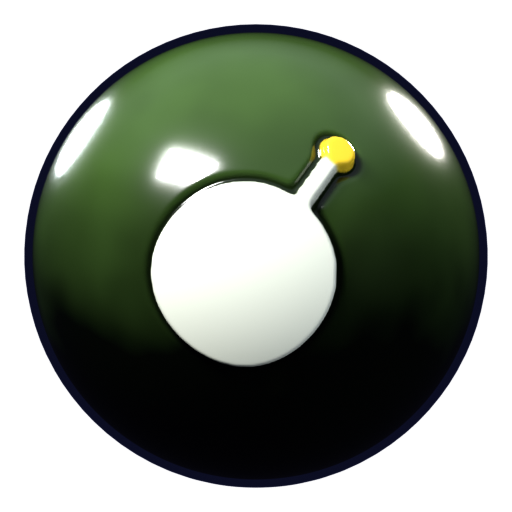
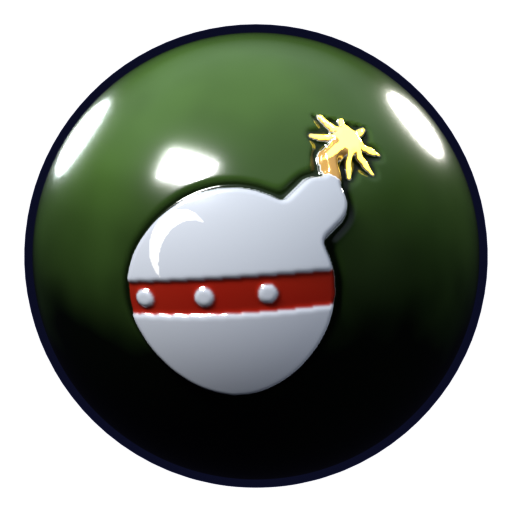
ART-2: custom relief emblems for PLANT (leaf), SLIME (drop with drips), GAS (cloud with swirls), BOMB (band, rivets, fuse, spark); contrast emblems for GHOST, BUBBLE, CRYSTAL; before|after sheet docs/shots/art2/fixed.jpg (8/10)

Changed region(s): [[0.2188, 0.2188, 0.75, 0.7812]]

diff --git a/tools/art/blender/balls.py b/tools/art/blender/balls.py
@@ -202,14 +202,168 @@ def flame_mask():
     return blur(outer.astype(np.float32), 1.0), blur(inner.astype(np.float32), 1.0)
 
 
+# ---------- custom emblem shapes (ART-2): the atlas icons for these read badly as relief ----------
+def _grid(k=1.0):
+    """Emblem space: x -0.5..0.5, y 0..1 (up); k > 1 enlarges the shape around the centre."""
+    y, x = (np.mgrid[0:ER, 0:ER] + 0.5) / ER  # y up (row 0 = bottom)
+    return (x - 0.5) / k, (y - 0.5) / k + 0.5
+
+
+def _disc(x, y, cx, cy, rx, ry=None):
+    ry = rx if ry is None else ry
+    return ((x - cx) / rx) ** 2 + ((y - cy) / ry) ** 2 < 1
+
+
+def _seg(x, y, a, b, w):
+    dx, dy = b[0] - a[0], b[1] - a[1]
+    t = np.clip(((x - a[0]) * dx + (y - a[1]) * dy) / (dx * dx + dy * dy), 0, 1)
+    return (x - a[0] - t * dx) ** 2 + (y - a[1] - t * dy) ** 2 < w * w
+
+
+def _line(x, y, pts, w):
+    m = np.zeros(x.shape, bool)
+    for a, b in zip(pts, pts[1:]):
+        m |= _seg(x, y, a, b, w)
+    return m
+
+
+def _goo(m, s=3.0):
+    """Union with gooey fillets: blur the hard mask and re-threshold."""
+    return smooth(blur(m.astype(np.float32), s), 0.42, 0.58) > 0.5
+
+
+def _spiral(x, y, cx, cy, r0, pitch, turns, w, rot=0.0, sign=1):
+    """Archimedean spiral line r = r0 + pitch * theta / 2pi, theta in [0, turns * 2pi]."""
+    r = np.hypot(x - cx, y - cy)
+    th = (sign * np.arctan2(y - cy, x - cx) - rot) % (2 * math.pi)
+    k = np.round((r - r0 - pitch * th / (2 * math.pi)) / pitch)
+    k = np.clip(k, 0, math.ceil(turns))
+    tt = th + 2 * math.pi * k
+    d = np.abs(r - r0 - pitch * tt / (2 * math.pi))
+    return (d < w) & (tt <= turns * 2 * math.pi)
+
+
+def leaf_mask():
+    x, y = _grid()
+    a = math.radians(35)
+    d = (math.sin(a), math.cos(a))
+    base, L = (-0.19, 0.17), 0.7
+    X = (x - base[0]) * d[0] + (y - base[1]) * d[1]
+    Y = -(x - base[0]) * d[1] + (y - base[1]) * d[0]
+    t = X / L
+    tc = np.clip(t, 0, 1)
+    off = 0.035 * np.sin(math.pi * tc)  # the leaf curls slightly
+    w = 0.21 * np.sin(math.pi * tc ** 0.8) ** 0.75
+    Yo = Y - off
+    outer = (np.abs(Yo) < w) & (t > 0) & (t < 1)
+    outer |= _seg(X, Y, (-0.13, -0.02), (0.02, 0.0), 0.024)  # stem
+    veins = _seg(X, Yo, (0.03, 0), (0.9 * L, 0), 0.014)
+    for t0 in (0.22, 0.42, 0.62):
+        t1 = t0 + 0.17
+        w1 = 0.21 * math.sin(math.pi * t1 ** 0.8) ** 0.75 * 0.72
+        for sd in (-1, 1):
+            veins |= _seg(X, Yo, (t0 * L, 0), (t1 * L, sd * w1), 0.011)
+    return outer.astype(np.float32), (veins & outer).astype(np.float32), None, 0.022
+
+
+def slime_mask():
+    x, y = _grid(1.25)
+    cx, cy, r = 0.0, 0.53, 0.235
+    tip = (y > cy) & (np.abs(x - cx) < r * np.clip(1 - (y - cy) / 0.37, 0, 1) ** 1.35)
+    m = _disc(x, y, cx, cy, r) | tip
+    m |= _seg(x, y, (-0.13, cy - 0.12), (-0.13, 0.15), 0.042) | _disc(x, y, -0.13, 0.13, 0.06)  # long drip
+    m |= _seg(x, y, (0.12, cy - 0.12), (0.12, 0.27), 0.034) | _disc(x, y, 0.12, 0.255, 0.048)  # short drip
+    m |= _disc(x, y, 0.0, cy - 0.235, 0.05, 0.06)  # bulge between the drips
+    outer = _goo(m, 2.2)
+    shine = _disc(x, y, -0.1, 0.57, 0.05, 0.08) | _disc(x, y, -0.03, 0.7, 0.022)
+    return outer.astype(np.float32), shine.astype(np.float32), None, -0.006
+
+
+def gas_mask():
+    x, y = _grid(1.12)
+    m = np.zeros(x.shape, bool)
+    for cx, cy, r in ((-0.2, 0.5, 0.14), (-0.04, 0.6, 0.19), (0.16, 0.53, 0.16), (-0.1, 0.42, 0.15),
+                      (0.1, 0.41, 0.14), (0.27, 0.45, 0.09)):
+        m |= _disc(x, y, cx, cy, r)
+    # wisps curling out of the cloud base
+    m |= _spiral(x, y, -0.22, 0.24, 0.0, 0.075, 1.15, 0.026, rot=math.radians(80))
+    m |= _spiral(x, y, 0.2, 0.25, 0.0, 0.06, 1.0, 0.022, rot=math.radians(100), sign=-1)
+    outer = _goo(m, 2.0)
+    swirl = _spiral(x, y, -0.05, 0.53, 0.0, 0.075, 1.6, 0.017) | _spiral(x, y, 0.17, 0.47, 0.0, 0.055, 1.1, 0.015,
+                                                                         sign=-1)
+    return outer.astype(np.float32), (swirl & outer).astype(np.float32), None, 0.022
+
+
+def ghost_mask():
+    x, y = _grid()
+    body = _disc(x, y, 0.0, 0.56, 0.25) & (y > 0.56)
+    hem = 0.2 - 0.065 * np.abs(np.cos(3 * math.pi * (x + 0.25) / 0.5))
+    body |= (np.abs(x) < 0.25) & (y <= 0.56) & (y > hem)
+    outer = _goo(body, 1.5)
+    face = _disc(x, y, -0.09, 0.57, 0.045, 0.068) | _disc(x, y, 0.09, 0.57, 0.045, 0.068) | \
+        _disc(x, y, 0.0, 0.41, 0.04, 0.05)
+    return outer.astype(np.float32), face.astype(np.float32), None, 0.03
+
+
+def gem_mask():
+    x, y = _grid()
+    top, gird, tw, gw, bot = 0.74, 0.58, 0.15, 0.31, 0.15
+    crown = (y >= gird) & (y <= top) & (np.abs(x) <= gw - (gw - tw) * (y - gird) / (top - gird))
+    pav = (y < gird) & (y > bot) & (np.abs(x) <= gw * (y - bot) / (gird - bot))
+    outer = crown | pav
+    W = 0.012
+    fac = _seg(x, y, (-gw, gird), (gw, gird), W)
+    fac |= _line(x, y, [(-tw, top), (-0.1, gird), (0.0, top)], W) | _line(x, y, [(0.0, top), (0.1, gird), (tw, top)], W)
+    fac |= _seg(x, y, (-0.1, gird), (0.0, bot), W) | _seg(x, y, (0.1, gird), (0.0, bot), W)
+    return outer.astype(np.float32), (fac & outer).astype(np.float32), None, 0.016
+
+
+def bomb_mask():
+    x, y = _grid(1.22)
+    cx, cy, r = -0.07, 0.4, 0.28
+    body = _disc(x, y, cx, cy, r)
+    a = math.radians(45)
+    d = (math.cos(a), math.sin(a))
+    n0 = (cx + r * 0.93 * d[0], cy + r * 0.93 * d[1])
+    n1 = (n0[0] + 0.08 * d[0], n0[1] + 0.08 * d[1])
+    neck = _seg(x, y, n0, n1, 0.075)
+    fuse_pts = [n1, (n1[0] + 0.04, n1[1] + 0.07), (n1[0] + 0.03, n1[1] + 0.13), (n1[0] + 0.08, n1[1] + 0.17)]
+    fuse = _line(x, y, fuse_pts, 0.026) & ~neck
+    sx, sy = fuse_pts[-1][0] + 0.02, fuse_pts[-1][1] + 0.02
+    rr = np.hypot(x - sx, y - sy)
+    th = np.arctan2(y - sy, x - sx)
+    spark = rr < 0.04 + 0.075 * np.abs(np.cos(4 * th + 0.3)) ** 5
+    outer = body | neck | fuse | spark
+    band = body & (np.abs(y - cy - 0.02 * (x - cx) / r) < 0.045)
+    rivets = np.zeros(x.shape, bool)
+    for rx in (-0.22, -0.06, 0.1):
+        rivets |= _disc(x, y, cx + rx + 0.0, cy + 0.02 * rx / r, 0.024)
+    band &= ~rivets
+    shine = _disc(x, y, cx - 0.12, cy + 0.12, 0.08, 0.1) & ~_disc(x, y, cx - 0.09, cy + 0.08, 0.085, 0.11) & body
+    paint = np.zeros(x.shape, np.float32)
+    paint[shine] = 0.33
+    paint[fuse] = 0.66
+    paint[spark] = 1.0
+    return outer.astype(np.float32), band.astype(np.float32), paint, 0.016
+
+
+SHAPES = {"PLANT": leaf_mask, "SLIME": slime_mask, "GAS": gas_mask, "GHOST": ghost_mask, "CRYSTAL": gem_mask,
+          "BOMB": bomb_mask}
+
+
 def emblem(e):
     """Returns (colour image, mask image, height array). mask: R fill, G groove, B inner (second colour level)."""
     col, row = e % 8, e // 8
     y0 = AH - (row + 1) * 128
     tile = zoom2(apx[y0:y0 + 128, col * 128:(col + 1) * 128].copy())
     inner = np.zeros((ER, ER), np.float32)
+    paint, inner_h = None, 0.02
     if TITLE[e] == "FIRE":
         a, inner = flame_mask()
+        tile[:, :, :3] = 1.0
+    elif TITLE[e] in SHAPES:
+        a, inner, paint, inner_h = SHAPES[TITLE[e]]()
+        a, inner = blur(a, 1.0), blur(inner, 0.7)
         tile[:, :, :3] = 1.0
     else:
         a = blur(smooth(tile[:, :, 3], 0.4, 0.6), 0.8)
@@ -218,7 +372,7 @@ def emblem(e):
     dil = smooth(blur(hard, 5.0), 0.04, 0.2)
     groove = np.clip(dil - fill, 0, 1)
     bevel = smooth(blur(hard, 3.0), 0.5, 0.97)
-    h = 0.042 * bevel - 0.014 * blur(groove, 1.5) - 0.02 * blur(inner, 1.2) * bevel
+    h = 0.042 * bevel - 0.014 * blur(groove, 1.5) - inner_h * blur(inner, 1.2) * bevel
     rgb = tile.copy()
     rgb[:, :, 3] = 1.0
     ci = bpy.data.images.new(f"emb{e}", ER, ER, alpha=True)
@@ -230,7 +384,16 @@ def emblem(e):
     mi.colorspace_settings.name = "Non-Color"
     mi.pixels.foreach_set(mk.astype(np.float32).ravel())
     mi.pack()
-    return ci, mi, h
+    pi = None
+    if paint is not None:  # paint codes: 0.33 shine, 0.66 fuse, 1.0 spark (glows)
+        pk = np.zeros((ER, ER, 4), np.float32)
+        pk[:, :, 0] = pk[:, :, 1] = pk[:, :, 2] = blur(paint, 0.6)
+        pk[:, :, 3] = 1.0
+        pi = bpy.data.images.new(f"paint{e}", ER, ER, alpha=True)
+        pi.colorspace_settings.name = "Non-Color"
+        pi.pixels.foreach_set(pk.ravel())
+        pi.pack()
+    return ci, mi, h, pi
 
 
 # ---------- sphere: emblem UVs (angles of the normal around the front -Y axis) ----------
@@ -366,7 +529,8 @@ def look_plant(b, e, obj):
     vein = b.maprange(v, 0.03, 0.0)
     base = grad(b, obj, C(10, 80, 30), C(70, 215, 100))
     base = b.mix(b.math("MULTIPLY", vein, 0.6), base, C(190, 255, 150))
-    return dict(base=base, rough=0.35, bump=vein, bump_k=0.4, sss=0.1, emb=C(200, 255, 170))
+    return dict(base=base, rough=0.35, bump=vein, bump_k=0.4, sss=0.1, emb=C(215, 255, 160),
+                emb_inner=C(40, 140, 50))
 
 
 def look_lightning(b, e, obj):
@@ -456,7 +620,8 @@ def look_lava(b, e, obj):
 def look_slime(b, e, obj):
     d = b.vor(obj, 3.0).outputs["Distance"]
     base = grad(b, obj, C(190, 30, 120), C(255, 140, 215))
-    return dict(base=base, rough=0.05, sss=0.4, bump=b.maprange(d, 0.0, 0.5), bump_k=-0.35, emb=C(255, 200, 235))
+    return dict(base=base, rough=0.05, sss=0.4, bump=b.maprange(d, 0.0, 0.5), bump_k=-0.35, emb=C(150, 10, 105),
+                emb_inner=C(255, 235, 248), groove=C(70, 0, 45), emb_rough=0.04)
 
 
 def look_void(b, e, obj):
@@ -478,7 +643,8 @@ def look_crystal(b, e, obj):
     base = b.ramp(cell, [(0.0, C(0, 80, 90)), (0.5, C(0, 170, 160)), (1.0, C(150, 255, 240))])
     base = b.mix(edge, base, C(220, 255, 250))
     return dict(base=base, rough=0.05, bump=cell, bump_k=0.6, emit=C(100, 255, 230),
-                emit_k=b.math("MULTIPLY", edge, 1.2), emb=C(200, 255, 248), emb_rough=0.05)
+                emit_k=b.math("MULTIPLY", edge, 1.2), emb=C(235, 255, 252), emb_rough=0.05,
+                emb_inner=C(0, 120, 125), groove=C(0, 35, 45))
 
 
 def look_mushroom(b, e, obj):
@@ -500,7 +666,8 @@ def look_67(b, e, obj):
 def look_gas(b, e, obj):
     n = b.noise(obj, 2.0, 6.0, 1.5)
     base = b.ramp(n, [(0.3, C(70, 80, 10)), (0.55, C(150, 170, 40)), (0.75, C(215, 230, 120))])
-    return dict(base=base, rough=0.4, emit=base, emit_k=b.maprange(n, 0.6, 0.8, 0.0, 0.3), emb=C(230, 245, 150))
+    return dict(base=base, rough=0.4, emit=base, emit_k=b.maprange(n, 0.6, 0.8, 0.0, 0.3), emb=C(235, 248, 160),
+                emb_inner=C(95, 110, 15), groove=C(40, 45, 5))
 
 
 def look_sound(b, e, obj):
@@ -523,18 +690,19 @@ def look_ghost(b, e, obj):
     n = b.noise(obj, 1.6, 4.0, 1.0)
     base = b.ramp(n, [(0.3, C(150, 135, 230)), (0.7, C(235, 230, 255))])
     return dict(base=base, rough=0.25, sss=0.5, emit=C(210, 200, 255), emit_k=b.math("MULTIPLY", b.rim(0.4, 2.0), 1.0),
-                emb=C(255, 255, 255), emb_icon=1)
+                emb=C(115, 70, 235), emb_inner=C(25, 12, 60), groove=C(45, 25, 110))
 
 
 def look_bomb(b, e, obj):
     base = grad(b, obj, C(12, 16, 10), C(70, 95, 50))
-    return dict(base=base, rough=0.18, coat=1.0, emb=C(230, 235, 220), emb_icon=1)
+    return dict(base=base, rough=0.18, coat=1.0, emb=C(200, 205, 215), emb_metal=0.35, emb_rough=0.15,
+                emb_inner=C(150, 40, 30), paint=[C(255, 255, 255), C(205, 160, 95), C(255, 225, 90)], paint_k=4.0)
 
 
 def look_bubble(b, e, obj):
     base = grad(b, obj, C(60, 170, 200), C(190, 245, 255))
     return dict(base=base, rough=0.03, thin=520.0, emit=C(200, 250, 255), emit_k=b.math("MULTIPLY", b.rim(0.3, 2.0), 0.8),
-                emb=C(255, 255, 255))
+                emb=C(20, 95, 210), groove=C(10, 40, 110))
 
 
 def look_glitch(b, e, obj):
@@ -575,7 +743,7 @@ def _rgb(b, v):
     return n.outputs[0]
 
 
-def build(e, ci, mi):
+def build(e, ci, mi, pi=None):
     name = TITLE[e]
     mat = bpy.data.materials.new(f"M_{name}")
     b = NB(mat)
@@ -599,8 +767,17 @@ def build(e, ci, mi):
         tint = b.mix(1.0, tint, cimg.outputs["Color"], "MULTIPLY")
     if "emb_inner" in L:
         tint = b.mix(inner, tint, sock(b, L["emb_inner"]))
+    spark = None
+    if pi is not None:
+        pimg = b.n("ShaderNodeTexImage", {"Vector": uv}, image=pi, extension="CLIP", interpolation="Linear")
+        pv = b.n("ShaderNodeSeparateColor", {0: pimg.outputs["Color"]}).outputs[0]
+        pc = L.get("paint", [(1, 1, 1, 1)] * 3)
+        pcol = b.ramp(pv, [(0.0, (1, 1, 1, 1)), (0.2, pc[0]), (0.5, pc[1]), (0.83, pc[2])], "CONSTANT")
+        tint = b.mix(b.maprange(pv, 0.1, 0.2), tint, pcol)
+        spark = b.maprange(pv, 0.8, 0.95)
     embc = b.mix(0.18, tint, base)
-    shaded = b.mix(b.math("MULTIPLY", groove, 0.75), base, (0.0, 0.0, 0.0, 1))
+    gk = 0.75 if "groove" not in L else 1.0
+    shaded = b.mix(b.math("MULTIPLY", groove, gk), base, L.get("groove", (0.0, 0.0, 0.0, 1)))
     b.nt.links.new(b.mix(fill, shaded, embc), P.inputs["Base Color"])
 
     rough = L.get("rough", 0.3)
@@ -625,6 +802,8 @@ def build(e, ci, mi):
     b.nt.links.new(emc, P.inputs["Emission Color"])
     k = b.math("MULTIPLY", ek, nofill) if em is not None else b.math("MULTIPLY", 0.0, nofill)
     k = b.math("ADD", k, b.math("MULTIPLY", fill, L.get("emb_k", 0.0)))
+    if spark is not None:
+        k = b.math("ADD", k, b.math("MULTIPLY", spark, L.get("paint_k", 3.0)))
     b.nt.links.new(k, P.inputs["Emission Strength"])
 
     # micro relief of the body (the emblem relief is real geometry)
@@ -640,10 +819,10 @@ os.makedirs(out_dir, exist_ok=True)
 names = [s.strip() for s in A.only.split(",") if s.strip()] if A.only != "ALL" else TITLE
 for name in names:
     e = TITLE.index(name)
-    ci, mi, h = emblem(e)
+    ci, mi, h, pi = emblem(e)
     displace(h)
     ball.data.materials.clear()
-    ball.data.materials.append(build(e, ci, mi))
+    ball.data.materials.append(build(e, ci, mi, pi))
     fn = name.lower().replace(" ", "_")
     sc.render.filepath = os.path.join(out_dir, f"ball_{fn}.png")
     bpy.ops.render.render(write_still=True)
